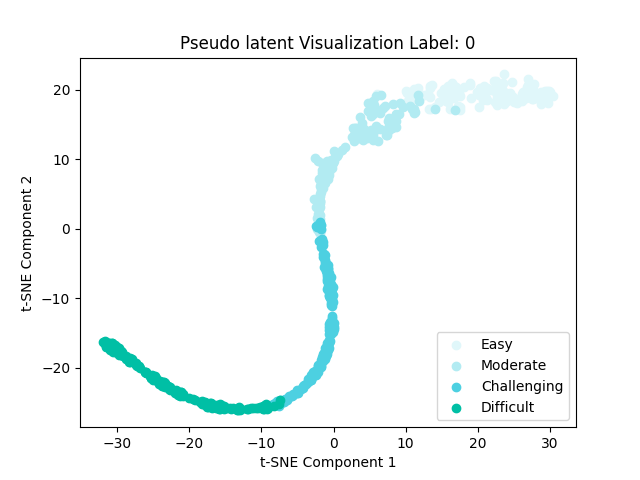
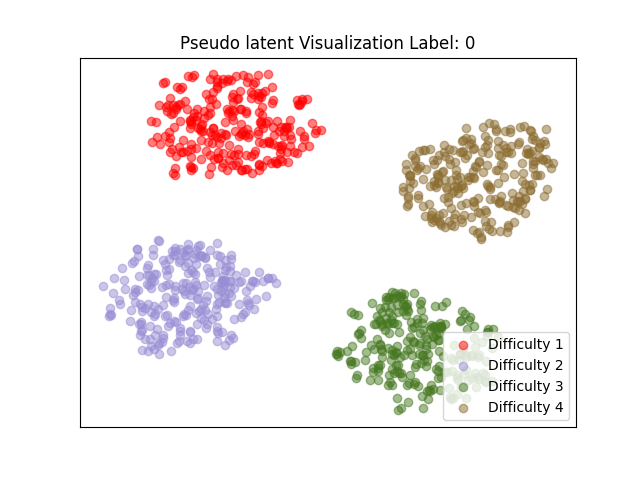
generator img fix

diff --git a/draw_generator.py b/draw_generator.py
@@ -23,6 +23,7 @@ from sklearn.preprocessing import StandardScaler
 from sklearn.decomposition import PCA
 from sklearn.manifold import TSNE
 import matplotlib.pyplot as plt
+from trainer.policy.boosted import Policy
 
 
 GRAY = '#777777'
@@ -48,7 +49,7 @@ TEXT_SIZE = 14/RATIO
 # COLORS = ["#E0F7FA", "#B2EBF2", "#4DD0E1", "#00BFA5"]
 
 
-DIFFS = ["Easy", "Moderate", "Challenging", "Difficult"]
+
 
 
 
@@ -63,14 +64,16 @@ np.random.seed(seed)
 random.seed(seed)
 
 def darkflpg_draw(label, dir, title):
-    COLORS = ["#E0F7FA", "#B2EBF2", "#4DD0E1", "#00BFA5"]
+    DIFFS = ["Difficulty 1", "Difficulty 2", "Difficulty 3", "Difficulty 4"]
+    # COLORS = ["#E0F7FA", "#B2EBF2", "#4DD0E1", "#00BFA5"]
+    COLORS = [RED, PURPLE, DARK_GREEN, BROWN]
     args.diff_generator=True
     a = torch.load('exps/BASE_CIFAR/full_boosted/noniid1000/darkflpg_cifar100_noniid1000_vit_100c_1E_lrsgd0.05_boosted_G_12.pth')
     g = Generator_LATENT(args)
 
     g.load_state_dict(a, strict=False)
 
-    ALL=500
+    ALL=1000
     fig, ax = plt.subplots()
     if not os.path.exists(dir):
         os.makedirs(dir)
@@ -78,21 +81,40 @@ def darkflpg_draw(label, dir, title):
 
     y_input = torch.tensor([label]*ALL, dtype=torch.long).to(0)
     diff=[]
-    ds = [0, 1.5, 3, 4.5]
+    ds = [1, 2, 3, 4]
     for d in ds:
         diff.extend([d]*int(ALL/len(ds)))
         
     # diffs = torch.tensor(diff, dtype=torch.float).resize(ALL, 1).to(0)
-    diffs = torch.tensor(np.linspace(0, 5, ALL), dtype=torch.float).resize(ALL,1).to(0)
+    # diffs = torch.tensor(np.linspace(0, 5, ALL), dtype=torch.float).resize(ALL,1).to(0)
+    diffs = torch.tensor(diff, dtype=torch.float).resize(ALL,1).to(0)
     eps = torch.rand((y_input.shape[0], g.noise_dim)).to(0)
 
     imgs = g(y_input, eps, diffs)
+    
+    # model_path = 'exps/BASE_CIFAR/full_boosted/noniid1000/darkflpg_cifar100_noniid1000_vit_100c_1E_lrsgd0.05_boosted.pth'
+    # config_path = 'exps/BASE_CIFAR/full_boosted/noniid1000/darkflpg_cifar100_noniid1000_vit_100c_1E_lrsgd0.05_boosted.json'
+    # model = load_model_eval(args, model_path, config_path)
+    # model.to(0)
+    # md = []
+    # for b_idx in range(int(ALL/20)):
+    #     batch = {}
+    #     batch['pixel_values'] = imgs[b_idx*20:(b_idx+1)*20]
+    #     batch['labels'] = y_input[b_idx*20:(b_idx+1)*20]
+    #     exits_logits = model(**batch, is_latent=True)
+    #     for i in range(len(exits_logits[0])):
+    #         diff =  difficulty_measure([exits_logits[0][i]], batch['labels'][i], metric='loss')
+    #         md.append(diff.cpu().item())
+    # print(md)
+    # exit(0)
+    
     imgs = imgs.resize(ALL, 197*192)
 
     X = imgs.detach().cpu().numpy()
+    X = StandardScaler().fit_transform(X)
 
     # 创建t-SNE对象，并指定降维后的维度为2
-    tsne = TSNE(n_components=2)
+    tsne = TSNE(n_components=2, n_iter=300)
 
     # 对数据进行降维
     print(X.shape)
@@ -100,26 +122,28 @@ def darkflpg_draw(label, dir, title):
 
     # 可视化降维后的结果
     for idx, d in enumerate(ds):
-        plt.scatter(result[int(ALL/len(ds))*(idx):int(ALL/len(ds))*(idx+1), 0], result[int(ALL/len(ds))*(idx):int(ALL/len(ds))*(idx+1), 1], color=COLORS[idx], label=DIFFS[idx])
+        plt.scatter(result[int(ALL/len(ds))*(idx):int(ALL/len(ds))*(idx+1), 0], result[int(ALL/len(ds))*(idx):int(ALL/len(ds))*(idx+1), 1], color=COLORS[idx], label=DIFFS[idx], alpha=0.5)
 
     plt.legend(loc='lower right')
-    plt.xlabel('t-SNE Component 1')
-    plt.ylabel('t-SNE Component 2')
+    # plt.xlabel('t-SNE Component 1')
+    # plt.ylabel('t-SNE Component 2')
+    ax.tick_params(axis='both', which='both', labelbottom=False, labelleft=False)
+    ax.tick_params(axis='both', which='both', bottom=False, left=False)
     plt.title(title)
     plt.show()
     plt.savefig(f'{dir}label{label}.png')
 
 
-# darkflpg_draw(0, './imgs/generator/darkflpg/', f'Pseudo latent Visualization Label: {0}')
-# darkflpg_draw(50, './imgs/generator/darkflpg/', f'Pseudo latent Visualization Label: {50}')
-# darkflpg_draw(99, './imgs/generator/darkflpg/', f'Pseudo latent Visualization Label: {99}')
+darkflpg_draw(0, './imgs/generator/darkflpg/', f'Pseudo latent Visualization Label: {0}')
+darkflpg_draw(50, './imgs/generator/darkflpg/', f'Pseudo latent Visualization Label: {50}')
+darkflpg_draw(99, './imgs/generator/darkflpg/', f'Pseudo latent Visualization Label: {99}')
 
 
 def darkflpa_draw(label, dir, title):
-    COLORS = [RED, DARK_GREEN, BROWN, PURPLE]
+    COLORS = [RED, PURPLE, DARK_GREEN, BROWN]
     args.diff_generator=False
     gs = []
-    ALL=300
+    ALL=1000
     for i in range(4):
         a = torch.load(f'exps/BASE_CIFAR/full_boosted/noniid1000/darkflpa2_cifar100_noniid1000_vit_100c_1E_lrsgd0.05_boosted_G_{i}.pth')
         g = Generator_LATENT(args)
@@ -143,9 +167,10 @@ def darkflpa_draw(label, dir, title):
     imgs = imgs.resize(ALL, 197*192)
 
     X = imgs.detach().cpu().numpy()
+    X = StandardScaler().fit_transform(X)
 
     # 创建t-SNE对象，并指定降维后的维度为2
-    tsne = TSNE(n_components=2, n_iter=250)
+    tsne = TSNE(n_components=2, n_iter=300)
 
     # 对数据进行降维
     print(X.shape)
@@ -156,8 +181,10 @@ def darkflpa_draw(label, dir, title):
         plt.scatter(result[int(ALL/4)*(idx):int(ALL/4)*(idx+1), 0], result[int(ALL/4)*(idx):int(ALL/4)*(idx+1), 1], color=COLORS[idx], label=f'Generator {idx}', alpha=0.5)
 
     plt.legend(loc='lower right')
-    plt.xlabel('t-SNE Component 1')
-    plt.ylabel('t-SNE Component 2')
+    # plt.xlabel('t-SNE Component 1')
+    # plt.ylabel('t-SNE Component 2')
+    ax.tick_params(axis='both', which='both', labelbottom=False, labelleft=False)
+    ax.tick_params(axis='both', which='both', bottom=False, left=False)
     plt.title(title)
     plt.show()
     plt.savefig(f'{dir}label{label}.png')

diff --git a/utils/options.py b/utils/options.py
@@ -12,7 +12,7 @@ def args_parser():
     parser.add_argument('policy', type=str, default='base', help="early exit train-test mismatch policy")
     
     parser.add_argument('--dataset', type=str, default='cifar100_noniid1000')
-    parser.add_argument('--model', type=str, default='mlp')
+    parser.add_argument('--model', type=str, default='vit')
     parser.add_argument('--config_path', type=str, default='models/facebook/deit-tiny-patch16-224')
 
     # ===== Training Setting =====
